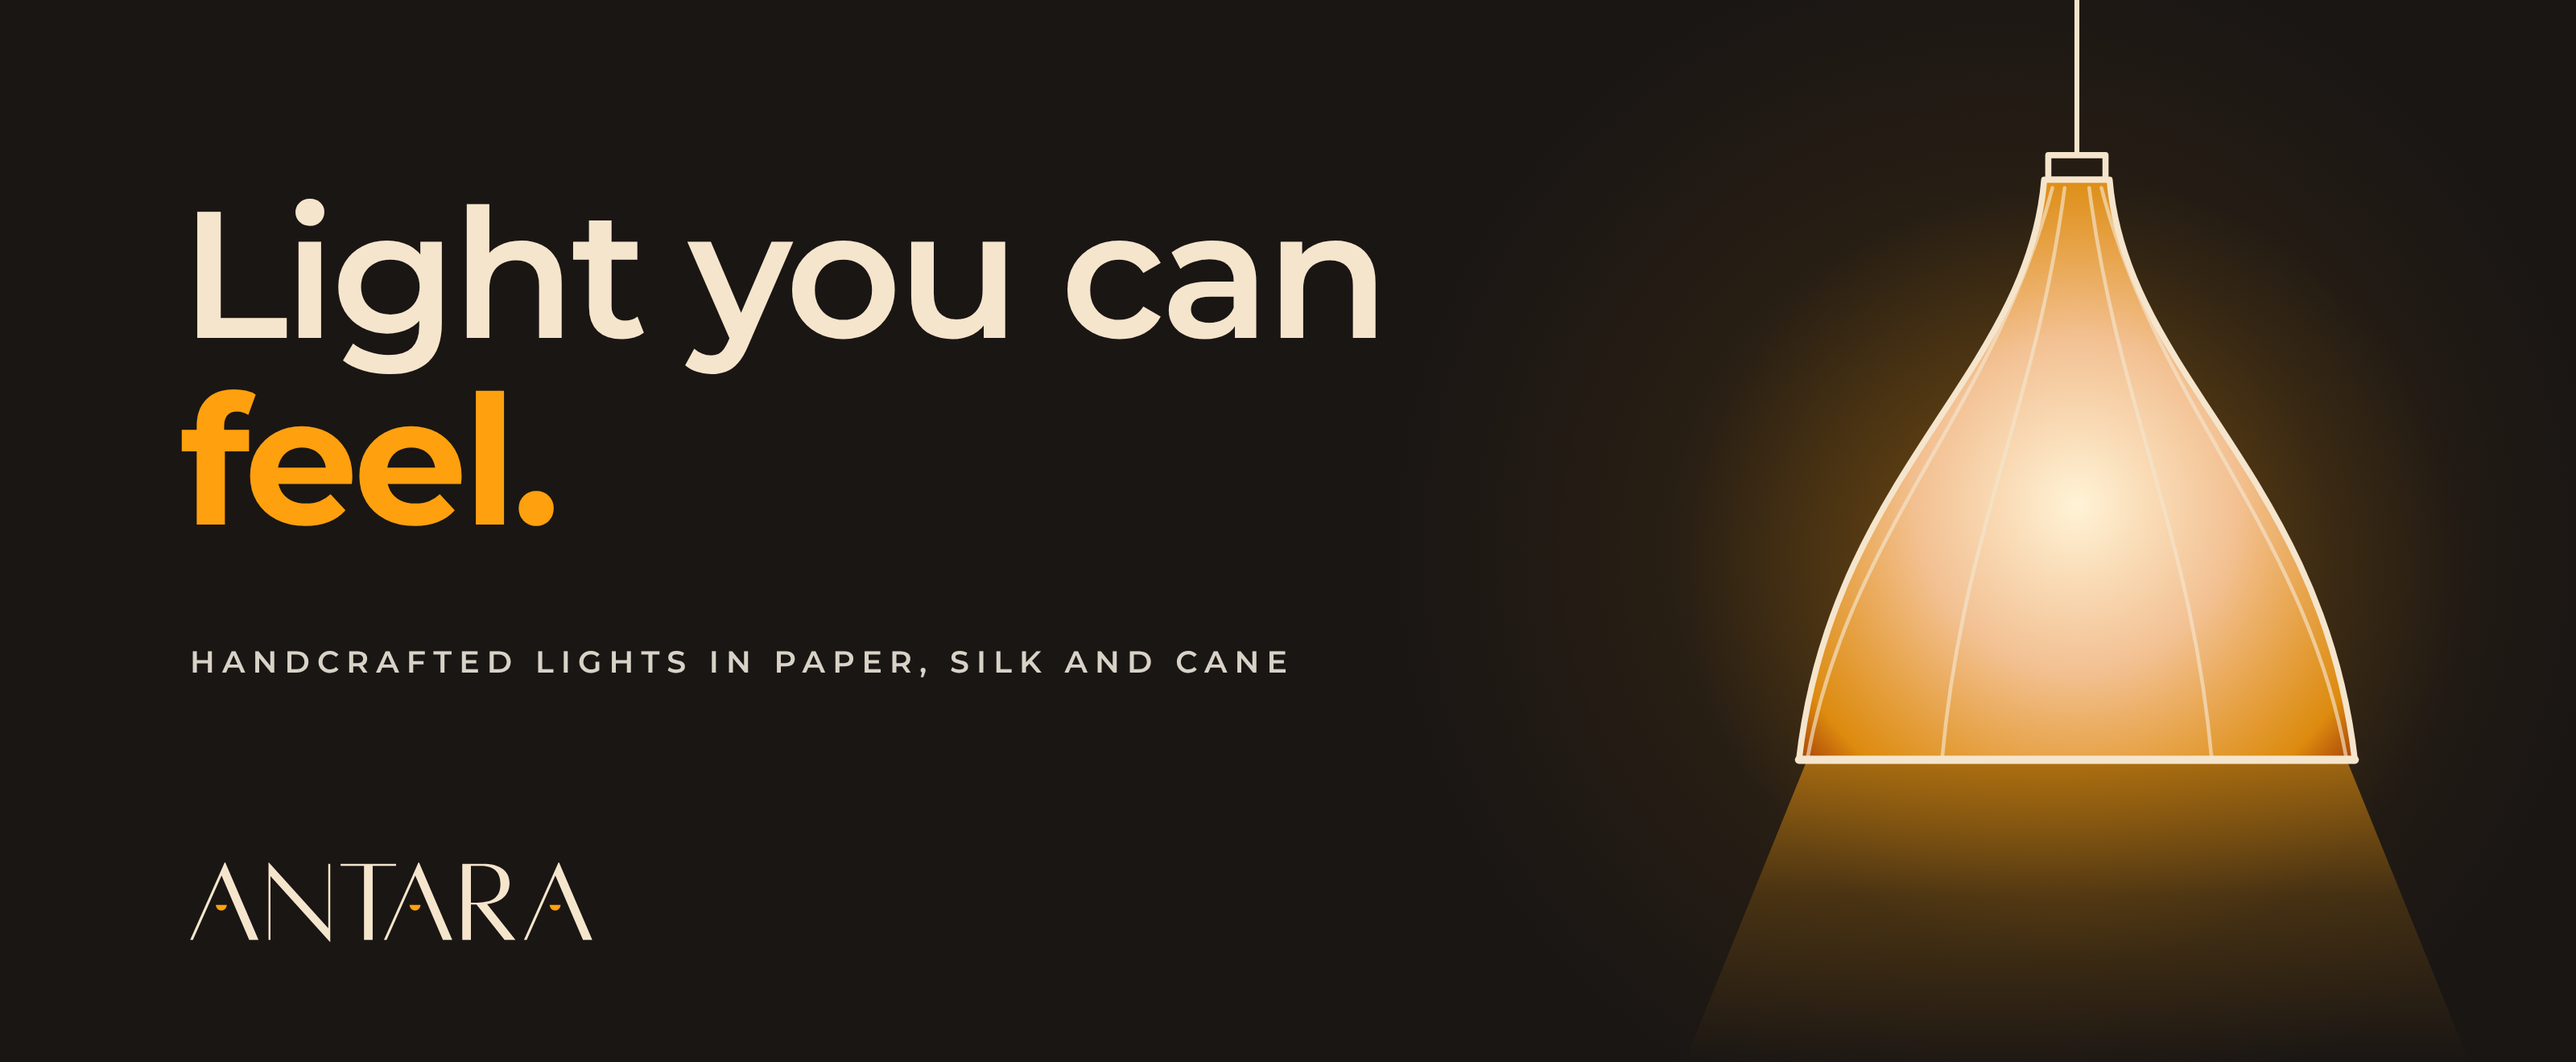
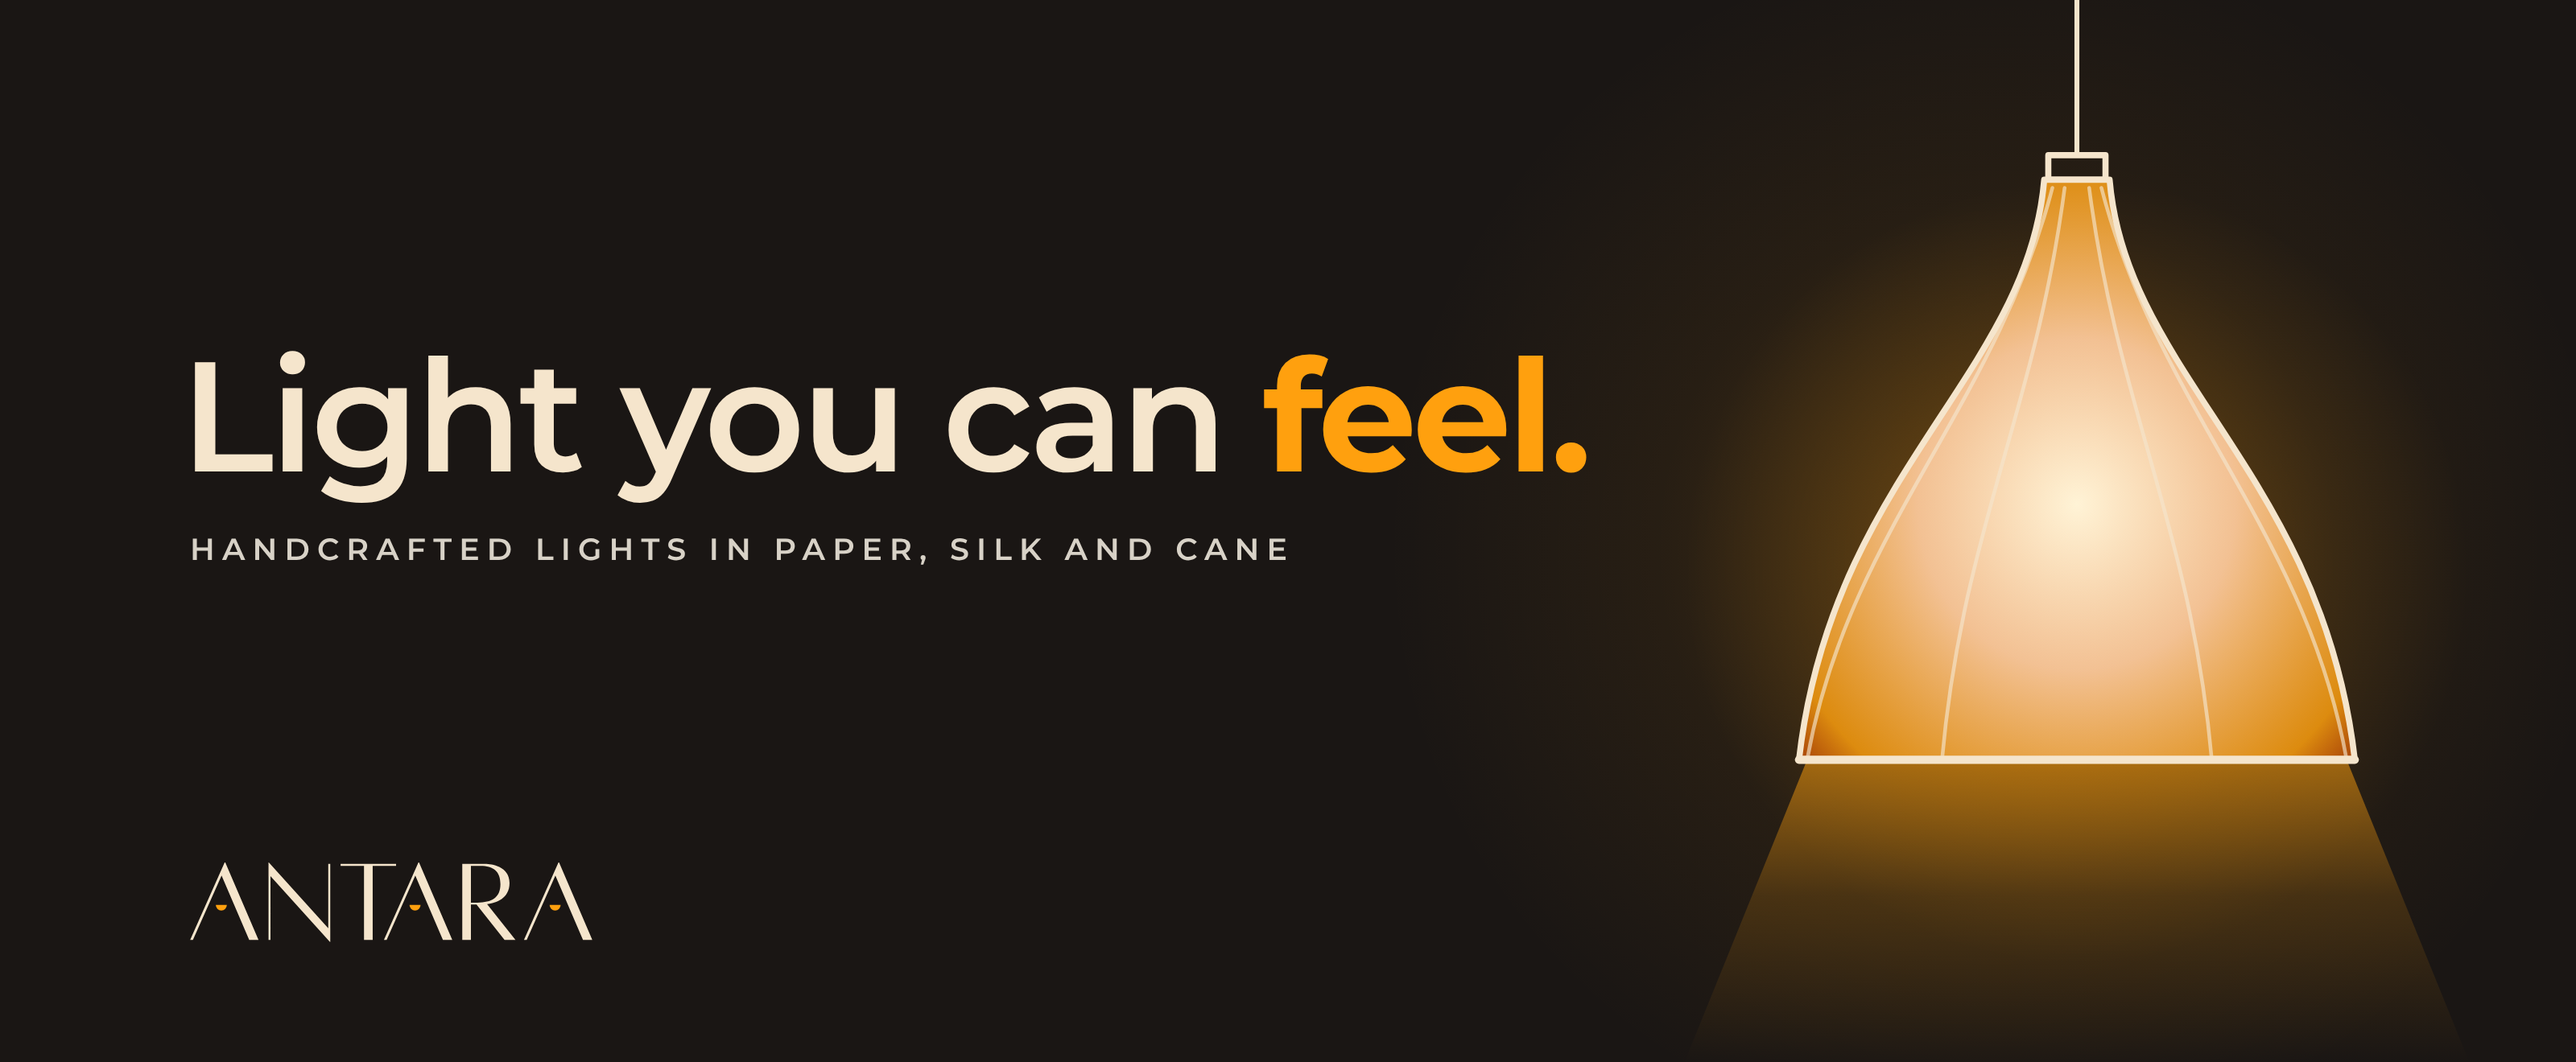
Set the billboard headline on one line
Claude-Session: https://claude.ai/code/session_01C44tHisK2P36zgEunUP3Hk

diff --git a/antara-brand/billboard/face.html b/antara-brand/billboard/face.html
@@ -7,9 +7,9 @@
   .face { position: relative; width: 1600px; height: 660px; overflow: hidden; background: #1A1614; --ink: #F5E5CC; --tile: #1A1614; }
   .face::before { content: ""; position: absolute; left: 860px; top: -40px; width: 760px; height: 760px; background: radial-gradient(closest-side, rgba(255,160,14,.22), rgba(255,160,14,.06) 55%, transparent); }
   .lamp { position: absolute; top: 0; left: 1036px; height: 660px; width: 508px; overflow: visible; }
-  h1 { position: absolute; left: 112px; top: 112px; margin: 0; font-family: MontserratBB, sans-serif; font-weight: 600; font-size: 112px; line-height: 1.04; letter-spacing: -.025em; color: #F5E5CC; }
+  h1 { position: absolute; left: 112px; top: 210px; margin: 0; white-space: nowrap; font-family: MontserratBB, sans-serif; font-weight: 600; font-size: 100px; line-height: 1; letter-spacing: -.025em; color: #F5E5CC; }
   h1 em { font-style: normal; font-weight: 700; color: #FFA00E; }
-  p { position: absolute; left: 118px; top: 400px; margin: 0; font-family: MontserratBB, sans-serif; font-weight: 600; font-size: 19px; letter-spacing: .24em; text-transform: uppercase; color: #D8D2C7; }
+  p { position: absolute; left: 118px; top: 330px; margin: 0; font-family: MontserratBB, sans-serif; font-weight: 600; font-size: 19px; letter-spacing: .24em; text-transform: uppercase; color: #D8D2C7; }
   .wm { position: absolute; left: 118px; bottom: 74px; width: 250px; height: auto; }
 </style></head><body><svg width="0" height="0" style="position:absolute" aria-hidden="true" focusable="false"><defs>
 <linearGradient id="beam" x1="0" y1="0" x2="0" y2="1">
@@ -36,7 +36,7 @@
 </defs></svg>
 <div class="face">
   <svg class="lamp" data-lamp="silkbell" viewBox="0 0 200 260" aria-hidden="true"></svg>
-  <h1>Light you can<br><em>feel.</em></h1>
+  <h1>Light you can <em>feel.</em></h1>
   <p>Handcrafted lights in paper, silk and cane</p>
   <svg class="wm" viewBox="0 0 946 188" aria-label="Antara" style="--ink:#F5E5CC;--bulb:#FFA00E"><use href="#wm" width="946" height="188"/></svg>
 </div>
@@ -135,4 +135,6 @@
       L('M72 52 H128', 2.5) + L('M64 96 H136', 3) + L('M64 146 H136', 3) + L('M68 206 H132', 2.5))() }
   };
 
-  document.querySelectorAll('svg[data-lamp]').forEach(el => { el.innerHTML = LIGHTS[el.dataset.lamp].svg; }); })();</script></body></html>
+  document.querySelectorAll('svg[data-lamp]').forEach(el => { el.innerHTML = LIGHTS[el.dataset.lamp].svg; }); })();
+// headline on one line: shrink to fit the space left of the light
+document.fonts.ready.then(() => { const h = document.querySelector('h1'), max = 880; let fs = 100; while (h.scrollWidth > max && fs > 40) h.style.fontSize = (fs -= 1) + 'px'; document.body.dataset.ready = '1'; });</script></body></html>
